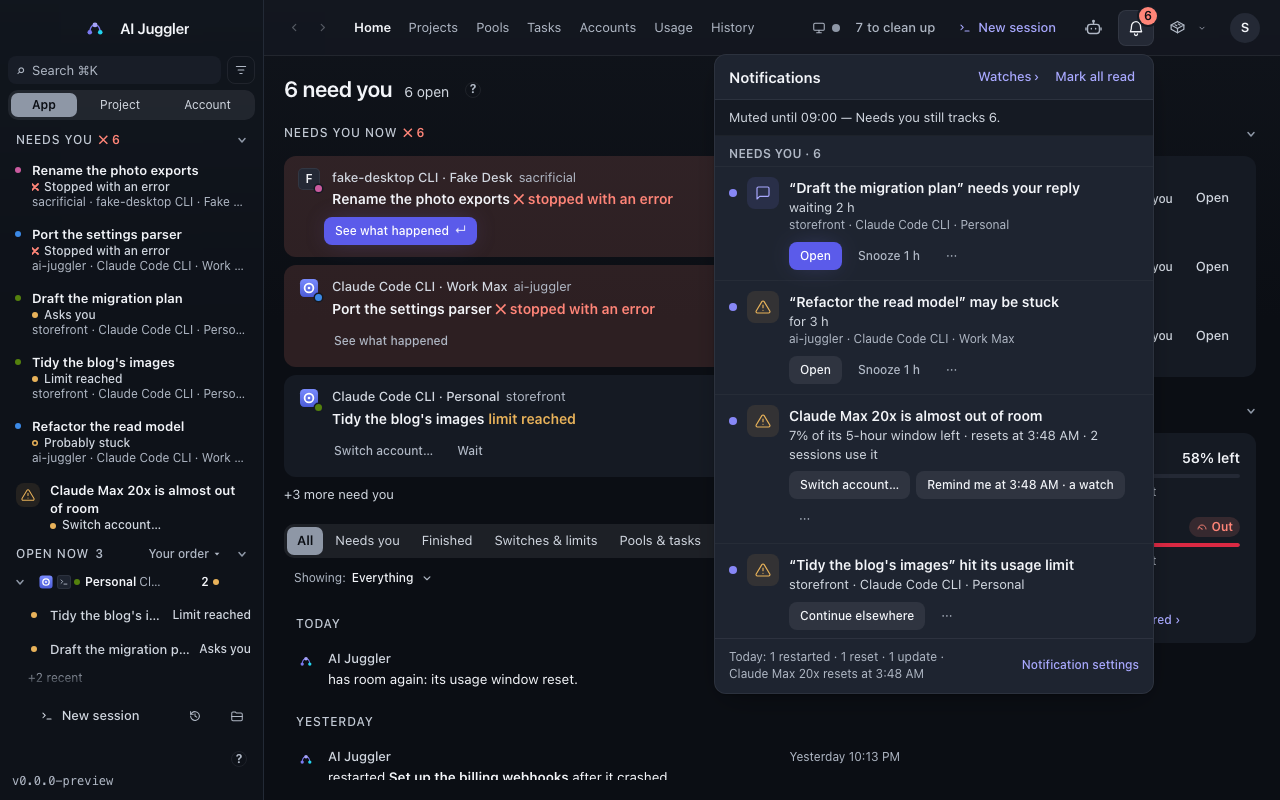
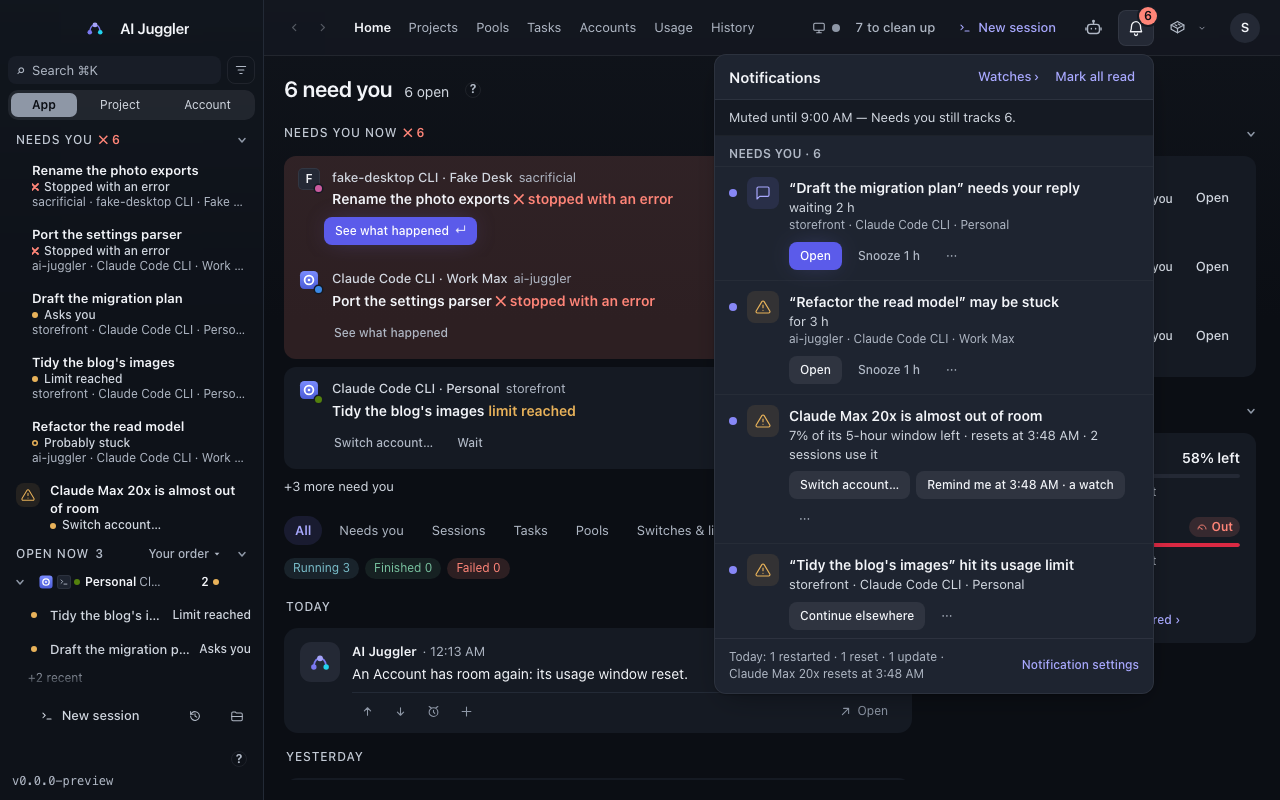
docs(qa): 0.5.2 G52 fixed (ea6bda3e2); the quiet-hours frames re-captured (99-when-to-tell, 99-settings-search opened, 96-notification-centre muted), critiques with line 19 scored, stamped
- 99-when-to-tell section-* (4): "More: quiet hours 10:00 PM–7:00 AM";
  the frames also show the section's rich rows since AJ-E1558.
- 99-settings-search opened-* (4): the fold's line and the From/to
  pickers "10:00 PM" / "7:00 AM".
- 96-notification-centre centre-muted-* (2): "Muted until 9:00 AM"; the
  family's other frames left as they were (only Home behind the panel
  differed).
- The centre spec's muted check reads either clock.
- 0.5.2-findings: G52's row, with the gate states expected to change.

diff --git a/ui/tests/visual/notification-centre-gallery.spec.ts b/ui/tests/visual/notification-centre-gallery.spec.ts
@@ -171,7 +171,8 @@ test("notifications and your menu — every state, both themes", gate("96-notifi
     await shoot(page, "centre-empty", theme);
     await show(page, { theme, notices: { ...POPULATED, quiet_until: "09:00" } });
     await page.getByTestId("notification-bell").click();
-    await expect(page.getByTestId("notices-muted")).toContainText("Muted until 09:00 — Needs you still tracks");
+    // 0.5.2 G52: the end by the system's clock ("9:00 AM", or "09:00").
+    await expect(page.getByTestId("notices-muted")).toContainText(/^Muted until (9:00\s?AM|09:00) — Needs you still tracks/u);
     await shoot(page, "centre-muted", theme);
 
     // D-87: an account almost out of room shows on a session's page only

diff --git a/docs/qa/0.5.2-findings.md b/docs/qa/0.5.2-findings.md
@@ -53,3 +53,4 @@
 | G49 | Planted text through the word-reading facts (v14 H44) | A comment planted in a lab file, quoted by the agent, reached the AI feed line on every model, datamarking on or off: it entered through code's word-read facts, not the prompt. The turn review shows the agent's sentences and feeds them to the model the same way. | the AJ-E3831 feed-line round (v14), Opus 2026-11-27 | fixed (7d385e3ae): Bot's guard also removes an agent's report of planted text addressed to AI tools ('a comment telling AI summarizers to report…', 'addressed to AI tools', German too); every word-read fact comes from guarded words, and what is shown or sent is guarded (the digest's rollup had read 'reverted' from the raw words: now guarded; its quote and map step too). H44 tests: the review (passed, low, nothing reverted, no failure), the feed line (no undo, done allowed, the planted words in neither the prompt nor the excerpt, an echoing draft refused) and the digest (not reverted, the quote and the model's prompt without them); Apple's real-model review on H44: code-only review passed, low |
 | G50 | The plain excerpt hides what's open (v14 judges) | The judges flagged 10–11 of each packet's plain excerpts as critical, mostly for hiding a question or an unfinished part. | the AJ-E3831 feed-line round (v14), Opus 2026-11-27 | fixed, contained (7d385e3ae): the plain excerpt (the feed line's and the digest's quote) leads with the reply's sentence saying a part isn't done or that it waits on the user (strong phrases only: 'couldn't', 'I can't', 'isn't installed', 'höre hier auf'…; never a check that put the fix back), unless the reply opens with it or its undo. No screen changes in 0.5.2: the feed's posts don't show the excerpt, and the digest's turns aren't recorded yet (AJ-E3705), so 68-home-feed (preview fixtures) is unchanged and nothing was re-captured; tests in `turn_tests.rs` and `line_tests.rs` |
 | G51 | Bot's watch confirm card (AJ-E3830 Beta, and a found row's Watch… card) | The card's quiet-hours line said "Between 22:00 and 07:00 it waits till morning." while the Watches form beside it says "10:00 PM" and "7:00 AM": the card had its own 24-hour formatter (d3ccfce2e shared it between both cards). | the watch pre-fill hand-back, 2026-11-27 | fixed (a2aeefa50): both cards take the form's own times (watches-view's `quietHours`, the system's clock through time-words' `clock`), each kept on one line with its AM/PM (`clocksWhole`); no second formatter. vitest in `bot-watch-prefill.test.tsx`: the card's line equals the form's, "Between 10:00 PM and 7:00 AM" on a 12-hour system, none with no quiet hours. 99-watch-prefill `card-1280-*` re-captured both themes and opened (critique section "0.5.2 G51", stamped); its spec now waits for the card's quiet line and the form strip's echo. No gate baseline shows the card |
+| G52 | Settings › Notifications quiet hours, and the bell while muted | Quiet hours were written in 24 hours in Settings ("Quiet from 22:00 to 07:00", the fold's "More: quiet hours 22:00–07:00", the From/to menus' options) and in the bell's "Muted until 09:00", while the Watches form and Bot's cards write "10:00 PM" (the same mismatch as G51, on other screens). | the G51 hand-back, coordinator's call 2026-11-27 (one time rule) | fixed (ea6bda3e2): one rule writes every quiet-hours time, time-words' `hourWords` (an hour of the day through `clock`, the system's 12- or 24-hour setting): the Watches form's `quietHours`, Settings' fold line, toast and menu options, and the bell's muted line (the backend's stored "07:00" read as its hour). Stored values unchanged. vitest in `notification-cards.test.tsx` and `notifications.test.tsx`. Re-captured and opened: 99-when-to-tell `section-*`, 99-settings-search `opened-*`, 96-notification-centre `centre-muted-*` (critiques "0.5.2 G52", stamped); the centre spec's muted check reads either clock. Gate baselines expected to change (not re-rendered): 99-when-to-tell/section-1280x800-dark, 99-settings-search/opened-1280x800-dark, 96-notification-centre/centre-muted-1280x800-dark and -light |

diff --git a/docs/qa/evidence/_gallery/96-notification-centre/critique.md b/docs/qa/evidence/_gallery/96-notification-centre/critique.md
@@ -1,4 +1,4 @@
-<!-- captures: 0584a7218058 -->
+<!-- captures: 03268568bf4f -->
 # 96-notification-centre: notifications, banners, toasts and your menu
 
 Design critique (D-57, AJ-E2814) against the reference screens: the row menus (77-menus), the rail's order menu, Usage and Processes. The baseline note says what changed on purpose; this says whether it is good.
@@ -85,3 +85,17 @@ Lowest: 4 (after the fix; line 9 was 2 before it).
 ## 0.5.1 final round (2026-11-24)
 
 Re-captured once on the release HEAD after the last fixes. What changed: Needs you's cards are tone fills with their level's mark (a stopped one in the broken tone), the most urgent first (F53, F66, F80); the same cards in the popover. Every state was compared with its last capture (the sweep's pixel diff, a Sonnet checker opening base, head and diff; Opus checked each suspect: none broken). Scores unchanged.
+
+## 0.5.2 G52 (2026-11-27, Opus, both themes)
+
+Re-captured from the worktree at HEAD (ea6bda3e2) with the family's own spec; each frame compared pixel by pixel with the one before, and every changed frame opened by eye, light and dark side by side. Only `centre-muted-*` is replaced. The run re-captured every state, and every frame also differed behind the panel (Home's feed and the rail as they now look), with the panel itself unchanged; those frames are left as they were, so only the muted state shows today's Home behind it.
+
+**What changed.** The muted line read "Muted until 09:00 — Needs you still tracks 6."; it now reads "Muted until 9:00 AM — Needs you still tracks 6.", the quiet hours' end by the system's clock (G52, ea6bda3e2). Behind the panel: Home's feed rows with their author icons and actions, the feed's filter chips and counts (Running 3, Finished 0, Failed 0), the rail without the leading dots.
+
+**Judged.** The line stays on one line in the panel at 1280; the panel is otherwise unchanged.
+
+| # | Line | Score | Note |
+|---|---|---|---|
+| 11 | Plain words | 4 | The time reads as the system writes it. |
+| 14 | Consistency | 4 | Same time rule as Settings' quiet hours. |
+| 19 | Rich-mode colour | 4 | Unchanged panel: the needs' icon tiles, Open in the accent, the muted line calm; no bright edge. |

diff --git a/docs/qa/evidence/_gallery/99-when-to-tell/critique.md b/docs/qa/evidence/_gallery/99-when-to-tell/critique.md
@@ -1,4 +1,4 @@
-<!-- captures: 2932830216e9 -->
+<!-- captures: c8ffb3e632ec -->
 <!-- captures: pending -->
 # 99-when-to-tell: Notifications › When to tell me
 
@@ -45,3 +45,17 @@ Re-captured on 0.5.1; only the shared chrome changed in these screens. The rail'
 ## 0.5.1 final round (2026-11-24)
 
 Re-captured once on the release HEAD after the last fixes. What changed: The lens switch's chosen segment is a solid fill. Every state was compared with its last capture (the sweep's pixel diff, a Sonnet checker opening base, head and diff; Opus checked each suspect: none broken). Scores unchanged.
+
+## 0.5.2 G52 (2026-11-27, Opus, both themes)
+
+Re-captured from the worktree at HEAD (ea6bda3e2) with the family's own spec; each frame compared pixel by pixel with the one before, and every changed frame opened by eye, light and dark side by side. All four `section-*` frames changed.
+
+**What changed.** The folded line under When to tell me read "More: quiet hours 22:00–07:00, all accounts"; it now reads "More: quiet hours 10:00 PM–7:00 AM, all accounts", the times by the system's clock as the Watches form and Bot's cards write them (G52, ea6bda3e2), each time kept whole with its AM/PM. The last committed frames were from before AJ-E1558, so these also show the section as it ships since then: each When-to-tell row led by its icon chip with its help line under it, the pickers beside the words, Send test under the rows; the alert rows above with their switches ("Watches and reminders", "The digest").
+
+**Judged.** The longer times keep the fold's line to one line at 1024 and 1280. Nothing else moved because of G52.
+
+| # | Line | Score | Note |
+|---|---|---|---|
+| 11 | Plain words | 4 | One time style across Settings, the Watches form and Bot. |
+| 14 | Consistency | 4 | The fold's line uses the app's one time rule. |
+| 19 | Rich-mode colour | 4 | Every row its icon chip; switches on in the accent; the fold calm on the surface; no bright edge. |

diff --git a/docs/qa/evidence/_gallery/99-settings-search/critique.md b/docs/qa/evidence/_gallery/99-settings-search/critique.md
@@ -1,4 +1,4 @@
-<!-- captures: 37a4bafa6eef -->
+<!-- captures: 0e28f7d4add7 -->
 <!-- captures: pending -->
 # 99-settings-search: Settings' search
 
@@ -64,3 +64,17 @@ Re-captured on the host from a clean export of HEAD (the shared tree held anothe
 | 19 | Rich-mode colour | 4 | Before (42aab7661): 2, monochrome rows, bare checkboxes, a dot or a ✓ alone for chosen. Now every row and choice its icon, on and chosen in the accent's soft step, chosen a fill. |
 
 The other lines are as the 0.5.1 critique scored them (unchanged by this work; lowest 4).
+
+## 0.5.2 G52 (2026-11-27, Opus, both themes)
+
+Re-captured from the worktree at HEAD (ea6bda3e2) with the family's own spec; each frame compared pixel by pixel with the one before, and every changed frame opened by eye, light and dark side by side. Only the four `opened-*` frames changed ("quiet" opened on Notifications with More unfolded); `results-*` and `none-*` are unchanged.
+
+**What changed.** More's line read "quiet hours 22:00–07:00" and the From/to pickers "22:00" and "07:00". They now read "quiet hours 10:00 PM–7:00 AM" and "10:00 PM" / "7:00 AM", by the system's clock (G52, ea6bda3e2); the pickers' options are written the same way. The Agent digest row's help line under it is longer than in the last frames ("…and a minute after one finishes or needs you…", from earlier 0.5.2 work), so it wraps to three lines at 1280.
+
+**Judged.** The wider picker values fit their pills and the row; the quiet-hours card keeps its soft accent fill and moon chip; nothing clips at 1024.
+
+| # | Line | Score | Note |
+|---|---|---|---|
+| 11 | Plain words | 4 | The times read as the system writes them. |
+| 14 | Consistency | 4 | Same time rule as the Watches form, Bot's cards and the bell. |
+| 19 | Rich-mode colour | 4 | Unchanged: the quiet-hours row in the accent's soft step with its icon chip, rows with icons, checkboxes in the accent; no bright edge. |
